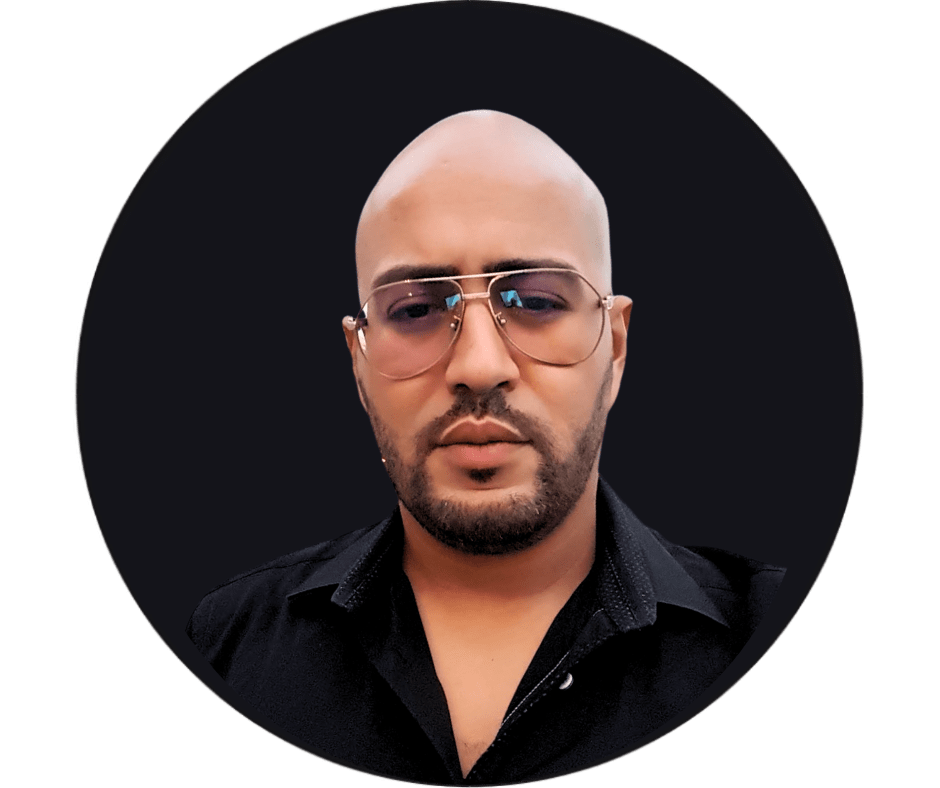
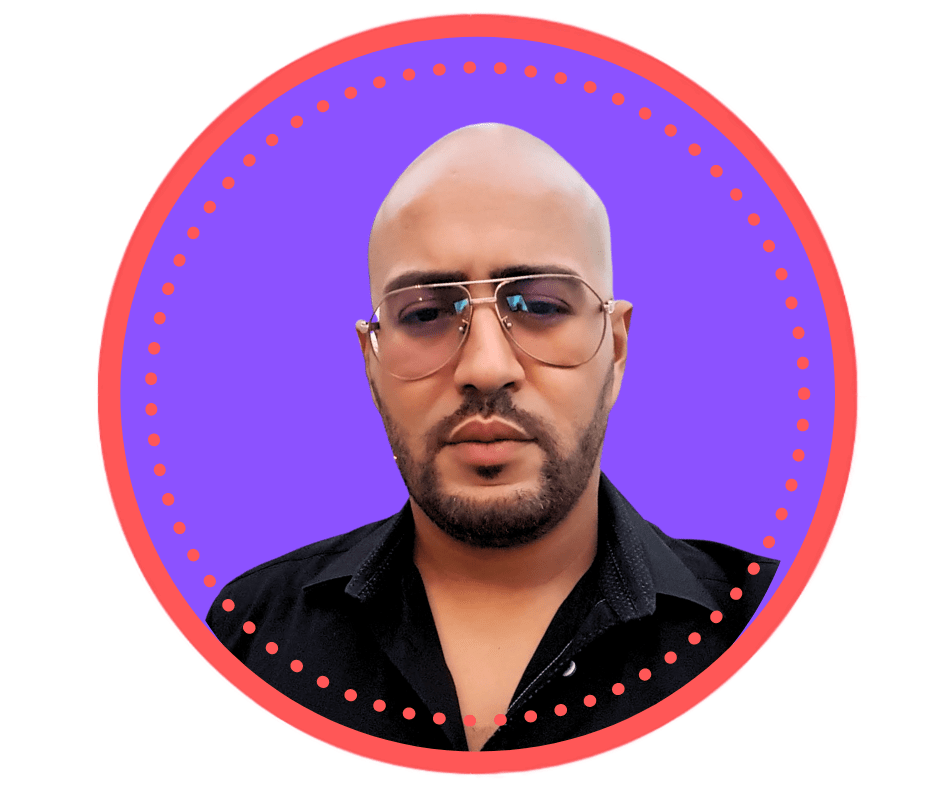
projet glassMorph

diff --git a/style.css b/style.css
@@ -1,3 +1,4 @@
+/*
 * {
     margin: 0;
     list-style: none;
@@ -25,6 +26,8 @@ body {
     border-left: 1px solid rgb(125, 125, 125);
 }
 
+.card:hover::before{transform:translatex(100%);}
+
 .card .content {
     display: flex;
     flex-direction: column;
@@ -33,6 +36,8 @@ body {
     height: 100%;
     padding: 0 20px;
 }
+
+
 
 .card .content .picture {
     width: 200px;
@@ -50,6 +55,7 @@ body {
     transform: translate( -50% , -50% );
     height: 170px;
     width: 170px;
+    
 }
 
 .card .content .picture img {
@@ -79,8 +85,247 @@ body {
     border-radius: 8px;
     margin-top: 40px;
     box-shadow: 0 2px 16px 3px #dc281e;
+    
 }
+
 
 .card .content a i {
     margin-left: 8px;
 }
+
+
+        */
+
+* {
+  box-sizing: border-box;
+  margin: 0;
+  list-style: none;
+  font-family: "Poppins";
+}
+
+.bg-morph {
+  display: grid;
+  place-content: center;
+
+  min-height: 100vh;
+  padding: 1rem;
+  background: url(images/bg-pink-blur.png);
+  background-size: cover;
+  background-position: center;
+}
+
+.cadre-morph {
+  width: min(80vw, 60ch);
+  min-height: 60vh;
+  z-index: 1;
+  display: grid;
+  grid-template-areas: "card";
+  color: #5a5a5a;
+  backdrop-filter: blur(15px);
+  border-radius: 15px;
+  overflow: hidden;
+  box-shadow: 0.05rem 0.1rem 0.3rem -0.03rem rgba(0, 0, 0, 0.6);
+}
+
+.cadre-morph > * {
+  grid-area: card;
+}
+
+.cadre-morph::before {
+  z-index: -1;
+  grid-area: 1 / 1 / -1 / -1;
+  transition: 0.6s;
+  content: "";
+  clip-path: polygon(0% 0%, 25% 0%, 50% 100%, 25% 100%);
+  transform: translatex(-100%);
+  background: rgba(255, 255, 255, 0.6);
+}
+
+.cadre-morph:hover::before {
+  transform: translatex(100%);
+}
+
+.cadre-morph img {
+  width: 14em;
+  height: 12em;
+  object-fit: cover;
+  border-radius: 9999px;
+}
+
+.devant > * {
+  margin: 1rem 0;
+}
+
+.devant {
+  display: grid;
+  place-items: center;
+  border: 1px solid rgba(255, 255, 255, 0.2);
+  background-color: rgba(255, 255, 255, 0.25);
+  backdrop-filter: blur(20px);
+  border-radius: inherit;
+  padding: 2rem 1rem;
+  backface-visibility: hidden;
+}
+
+.cadre-morph h1 {
+  font-size: 2rem;
+  font-size: clamp(1.5rem, 1.3269rem + 0.7692vw, 2rem);
+  color: white;
+  text-align: center;
+  text-decoration: none;
+  padding-top: 2em;
+  text-shadow: 2px 2px 4px rgba(0, 0, 0, 0.5);
+
+}
+
+.cadre-morph p {
+  font-size: 1.25rem;
+  font-size: clamp(0.75rem, 0.5769rem + 0.7692vw, 1.25rem);
+  color: white;
+  text-align: center;
+  text-decoration: none;
+  text-shadow: 2px 2px 4px rgba(0, 0, 0, 0.5);
+}
+
+.bouton {
+    text-transform: uppercase;
+    text-shadow: 2px 2px 4px rgba(0, 0, 0, 0.5);
+    font-size: 1.2rem;
+    font-weight: 500;
+    color: white;
+    text-align: center;
+    border-radius: 9999px;
+    padding: 0.85rem 1rem;
+    outline: none;
+    text-decoration: none;
+    background: linear-gradient(to top, #E53D78, #dc281e);
+    transition: background-color 0.3s, box-shadow 0.3s;
+  }
+  
+  .bouton:hover {
+    background: linear-gradient(to top, #ff5046, #961C59);
+    box-shadow: 0 0 10px rgba(0, 0, 0, 0.5);
+  }
+  
+
+.cadre-morph svg {
+  filter: drop-shadow(0 0 0.25em rgba(0, 0, 0, 0.18));
+  width: min(max(1.19051563rem, 4.58637337vw), 1.776889rem);
+  height: min(max(1.19051563rem, 4.58637337vw), 1.776889rem);
+}
+
+
+/* icone */
+
+@charset "UTF-8";
+@import "bourbon";
+
+  
+
+.social {
+  margin: 60px auto; }
+
+.social-icon  {
+  background-clip: padding-box;
+  -webkit-box-sizing: border-box;
+  -moz-box-sizing: border-box;
+  box-sizing: border-box;
+  border-radius: 3px;
+  -webkit-transition-property: background-color;
+  -moz-transition-property: background-color;
+  -ms-transition-property: background-color;
+  -o-transition-property: background-color;
+  transition-property: background-color;
+  -webkit-transition-duration: 0.5s;
+  -moz-transition-duration: 0.5s;
+  -ms-transition-duration: 0.5s;
+  -o-transition-duration: 0.5s;
+  transition-duration: 0.5s;
+  -webkit-transition-timing-function: ease;
+  -moz-transition-timing-function: ease;
+  -ms-transition-timing-function: ease;
+  -o-transition-timing-function: ease;
+  transition-timing-function: ease;
+  background-color: #313131;
+  text-align: center;
+  display: inline-block;
+  width: 40px;
+  height: 38px;
+  padding: 9px 0px;
+  color: white;
+  margin: 2px; }
+  .social-icon img {
+    width: 20px; }
+  .social-icon:nth-child(1):hover, .social-icon:nth-child(1):active, .social-icon:nth-child(1):focus {
+    opacity: 1;
+    background-color: #00b285; }
+  .social-icon:nth-child(2):hover, .social-icon:nth-child(2):active, .social-icon:nth-child(2):focus {
+    opacity: 1;
+    background-color: #00ba7c; }
+  .social-icon:nth-child(3):hover, .social-icon:nth-child(3):active, .social-icon:nth-child(3):focus {
+    opacity: 1;
+    background-color: #00c273; }
+  .social-icon:nth-child(4):hover, .social-icon:nth-child(4):active, .social-icon:nth-child(4):focus {
+    opacity: 1;
+    background-color: #00ca6a; }
+  .social-icon:nth-child(5):hover, .social-icon:nth-child(5):active, .social-icon:nth-child(5):focus {
+    opacity: 1;
+    background-color: #00d261; }
+  .social-icon:nth-child(6):hover, .social-icon:nth-child(6):active, .social-icon:nth  6):focus {
+    opacity: 1;
+    background-color: #00da58; }
+  .social-icon:nth-child(7):hover, .social-icon:nth-child(7):active, .social-icon:nth-child(7):focus {
+    opacity: 1;
+    background-color: #00e24f; }
+
+[data-tooltip]:before, [data-tooltip]:after {
+  -webkit-transform: translateX(-50%);
+  -moz-transform: translateX(-50%);
+  -ms-transform: translateX(-50%);
+  -o-transform: translateX(-50%);
+  transform: translateX(-50%);
+  -webkit-box-sizing: content-box;
+  -moz-box-sizing: content-box;
+  box-sizing: content-box;
+  position: absolute;
+  left: 50%;
+  top: 100%;
+  bottom: 100%;
+  visibility: hidden;
+  opacity: 0;
+  z-index: 9999;
+  -webkit-transform: translate3d(0, 0, 0);
+  -moz-transform: translate3d(0, 0, 0);
+  transform: translate3d(0, 0, 0); }
+  [data-tooltip]:before {
+    content: '';
+    border-color: #323232;
+    border-style: none;
+    border-width: 5px;
+    border-bottom: 6px solid #323232;
+    margin-top: -5px; }
+  [data-tooltip]:after {
+    content: attr(data-tooltip);
+    border-radius: 3px;
+    width: auto;
+    height: 22px;
+    padding: 11px 11px 0 11px;
+    font-size: 13px;
+    line-height: 11px;
+    white-space: nowrap;
+    background-color: #323232;
+    color: #ecf0f1;
+    margin-top: 7px; }
+  [data-tooltip]:hover:before, [data-tooltip]:hover:after, [data-tooltip]:focus:before, [data-tooltip]:focus:after {
+    -webkit-transform: translate(-50%, 0);
+    -moz-transform: translate(-50%, 0);
+    -ms-transform: translate(-50%, 0);
+    -o-transform: translate(-50%, 0);
+    transform: translate(-50%, 0);
+    opacity: 1;
+    visibility: visible; }
+
+
+
+
+

diff --git a/index.html b/index.html
@@ -1,27 +1,85 @@
 <!DOCTYPE html>
 <html lang="en">
+
 <head>
     <meta charset="UTF-8">
     <meta http-equiv="X-UA-Compatible" content="IE=edge">
     <meta name="viewport" content="width=device-width, initial-scale=1.0">
+    
     <title>Ma carte de visite</title>
     <script src="https://kit.fontawesome.com/0c87a70838.js"></script>
     <link rel="stylesheet" href="style.css">
+    <link href="https://fonts.googleapis.com/css?family=Lato" rel="stylesheet" type="text/css">
+
+    <link href="https://maxcdn.bootstrapcdn.com/font-awesome/4.7.0/css/font-awesome.min.css" rel="stylesheet" type="text/css">
 </head>
+
 <body>
-    <div class="card">
+    <!--<div class="card">
         <div class="content">
             <div class="picture">
                 <img src="images/circleBB-transformed.png" alt="cercle noir sans contour">
             </div>
-                <h1>Boubaker BOUSEBAA</h1>
-                <p>DEVELOPPEUR WEB FRONT 
-                    spécialisé JavaScript REACT. En formation Développeur Web 
-                    et Web mobile Titre professionnel Niveau V École O'Clock </p>
+            <h1>Boubaker BOUSEBAA</h1>
+            <p>DEVELOPPEUR WEB FRONT
+                spécialisé JavaScript REACT. En formation Développeur Web
+                et Web mobile Titre professionnel Niveau V École O'Clock </p>
 
-                <a href="#" alt="bouton s'abonner" >S'abonner<i class="fas fa-caret-right"></i></a>
+            <a class href="https://boubakerbousebaa.github.io" alt="bouton s'abonner">S'abonner<i
+                    class="fas fa-caret-right"></i></a>
+
         </div>
     </div>
-    
+
+-->
+
+
+
+    <div class=bg-morph>
+
+        <div class="cadre-morph">
+
+            <div class="devant">
+                <img src="images\circleBB-transformed.png" alt>
+                <h1>Boubaker BOUSEBAA</h1>
+                <p>DEVELOPPEUR WEB FRONT
+                    spécialisé JavaScript REACT. En formation Développeur Web
+                    et Web mobile Titre professionnel Niveau V École O'Clock </p>
+
+                <a class="bouton" href="https://boubakerbousebaa.github.io">En savoir plus</a>
+
+                <div class="social">
+
+                    <a class="social-icon" data-tooltip="email@gmail.com" href="mailto:boubakerbousebaa@gmail.com">
+                      <i class="fa fa-envelope" aria-hidden="true"></i>
+                    </a>
+                  
+                    <a class="social-icon" data-tooltip="GitHub" href="https://github.com/BoubakerBOUSEBAA">
+                      <i class="fa fa-github" aria-hidden="true"></i>
+                    </a>
+                  
+                    <a class="social-icon" data-tooltip="LinkedIn" href="https://www.linkedin.com/in/boubaker-bousebaa/">
+                      <i class="fa fa-linkedin" aria-hidden="true"></i>
+                    </a>
+                  
+                    <a class="social-icon" data-tooltip="Twitter" href="https://twitter.com/">
+                      <i class="fa fa-twitter" aria-hidden="true"></i>
+                    </a>
+                  
+                    
+                  
+                  </div>
+            </div>
+
+        </div>
+
+    </div>
+
+
+
+
+
+
 </body>
+
 </html>
